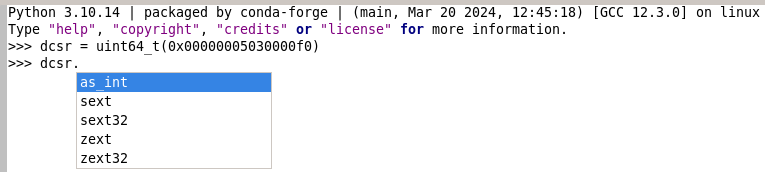
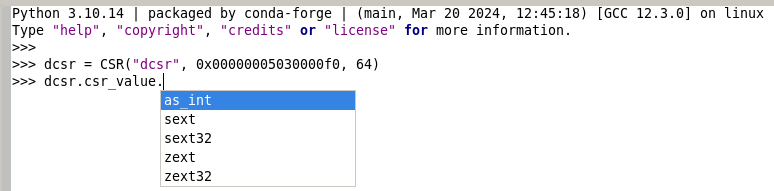
Add CSR fields to the IDE python shell

diff --git a/IDE/README.md b/IDE/README.md
@@ -41,9 +41,11 @@ Note that in order to save screen space, the CSR table only shows non-zero CSRs.
 ![alt text](images/register_tables.png)
 
 ### Python Shell
-The IDE provides a Python shell to make it easier to debug bit operations, field mask issues, and prototyping instruction handlers:
+The IDE provides a Python shell to make it easier to debug bit operations or field mask issues, prototyping instruction handlers, and viewing CSR field values:
 
 ![alt text](images/python_shell.png)
+![alt text](images/python_shell2.png)
+![alt text](images/python_shell3.png)
 
 Note that for the methods below, if the bit position argument should be XLEN, there is an 'xlen' variable (32 or 64) put in the Python shell workspace automatically when a test is loaded.
 
